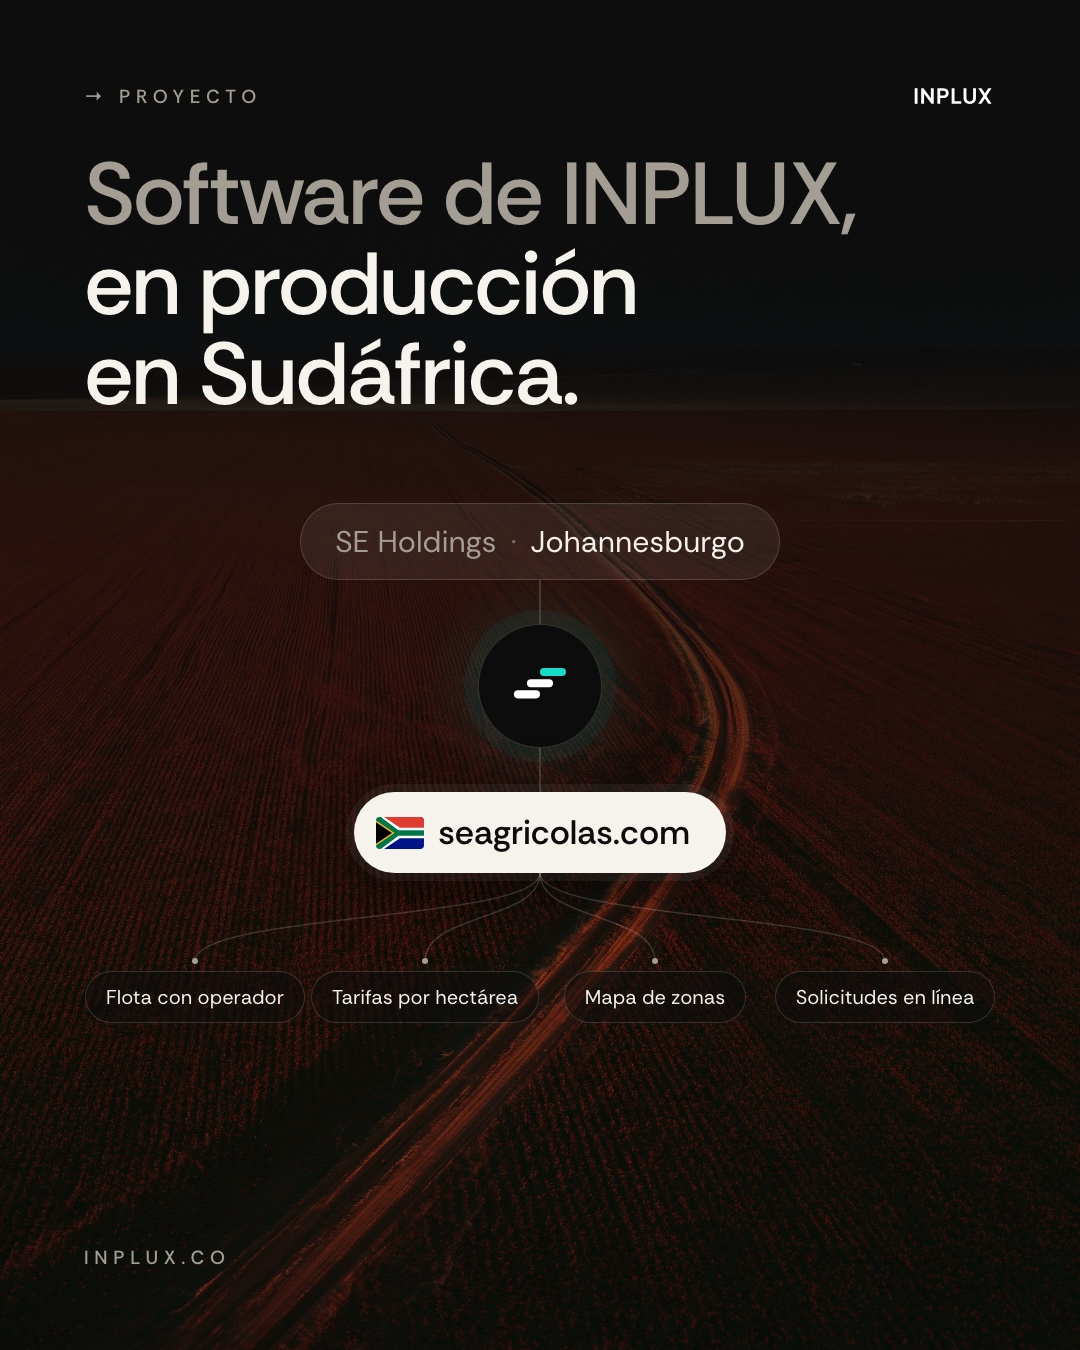
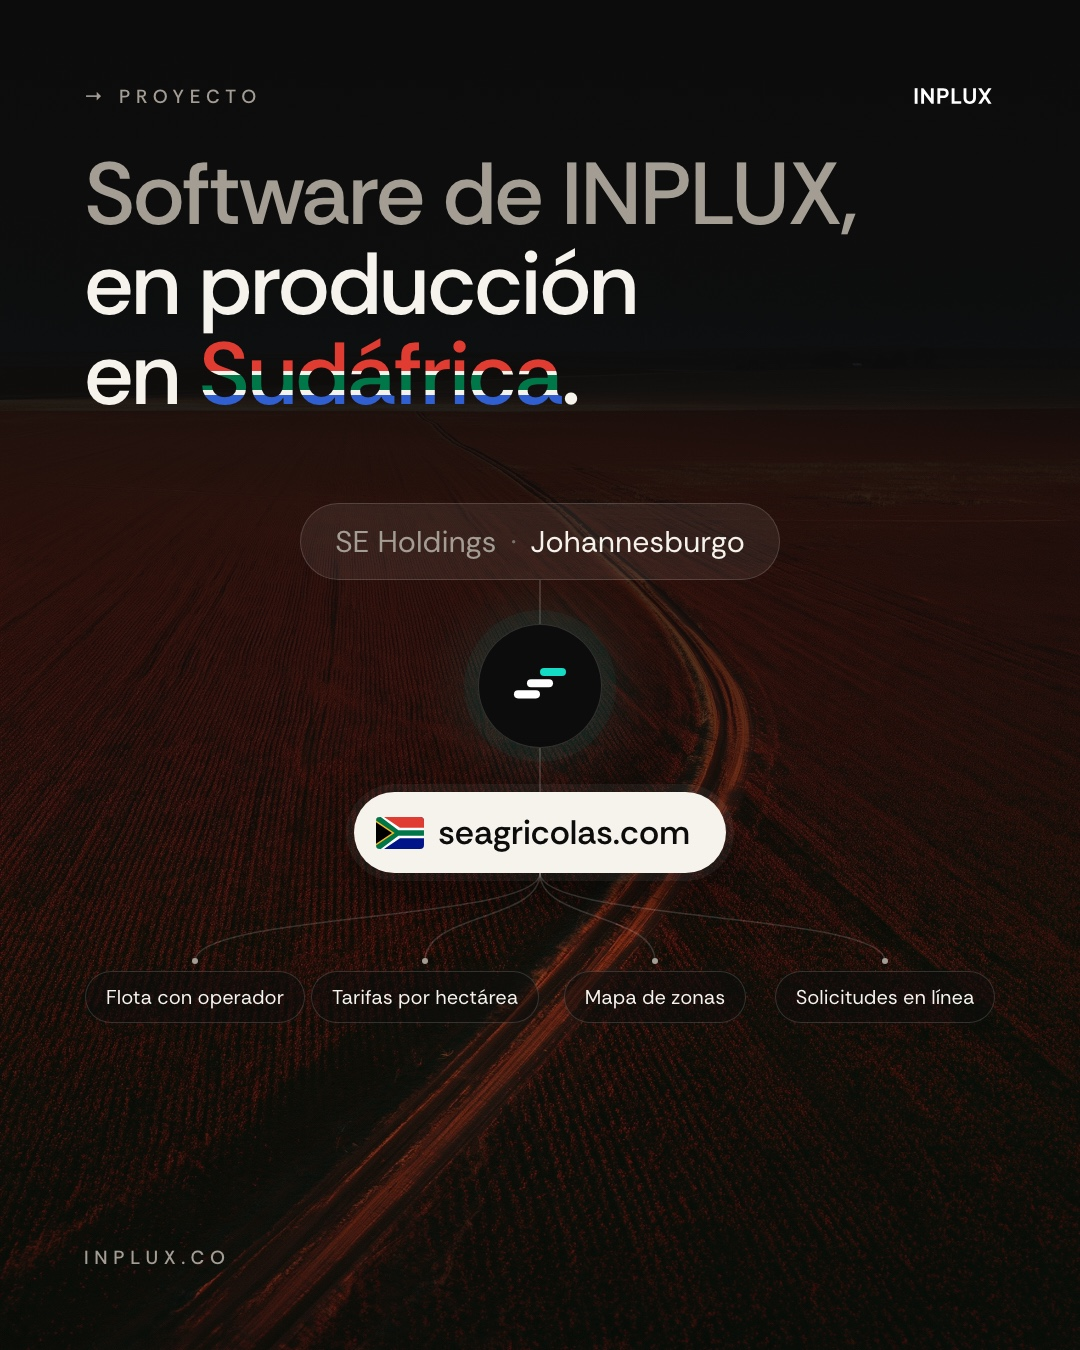
feat(instagram): portada con «Sudáfrica» en franjas de la bandera (la historia sigue en marfil)

Changed region(s): [[0.1833, 0.2489, 0.5194, 0.3111]]

diff --git a/brand/instagram/sudafrica/sudafrica_01_portada.html b/brand/instagram/sudafrica/sudafrica_01_portada.html
@@ -11,6 +11,10 @@ body{font-family:"Rethink Sans",sans-serif;color:#f6f2ec;-webkit-font-smoothing:
 .capa{position:absolute;inset:0;display:flex;flex-direction:column}
 .titular{font-weight:500;letter-spacing:-.025em;line-height:1.02}
 .titular .gris{color:#a39d94}
+/* Franjas de la bandera de Sudáfrica dentro de las letras: rojo, filete blanco, verde, filete blanco, azul.
+   El azul (#001489) se aclara un poco porque sobre el negro no se lee. */
+.za{background:linear-gradient(180deg,#E03C31 0 47%,#f6f2ec 47% 51%,#007749 51% 64%,#f6f2ec 64% 68%,#2f5fd0 68% 100%);
+  -webkit-background-clip:text;background-clip:text;color:transparent}
 .micro{font-size:19px;letter-spacing:.3em;text-transform:uppercase;color:#a39d94;font-weight:500}
 .wordmark{height:24px;display:block}
 .pill{display:inline-flex;align-items:center;gap:14px;border-radius:999px;white-space:nowrap}
@@ -23,7 +27,7 @@ body{font-family:"Rethink Sans",sans-serif;color:#f6f2ec;-webkit-font-smoothing:
 .tallo{width:1.5px;background:rgba(246,242,236,.16);margin:0 auto}
 </style></head><body><div class="lienzo"><img class="fondo" src="mj/69b6cfce_1.jpg"><div class="velo" style="background:linear-gradient(180deg,#0c0c0b 0%,rgba(12,12,11,.9) 34%,rgba(12,12,11,.45) 70%,rgba(12,12,11,.6) 100%)"></div><div class="grano"></div>
 <div class="capa" style="padding:150px 84px 0">
-  <h1 class="titular" style="font-size:88px"><span class="gris">Software de INPLUX,</span><br>en producción<br>en Sudáfrica.</h1>
+  <h1 class="titular" style="font-size:88px"><span class="gris">Software de INPLUX,</span><br>en producción<br>en <span class="za">Sudáfrica</span>.</h1>
   <div style="margin-top:84px">
 <div style="display:flex;flex-direction:column;align-items:center;transform:scale(1.0);transform-origin:top center">
   <div class="pill oscura"><span style="color:#a39d94">SE Holdings</span><span style="color:#77726b">·</span>Johannesburgo</div>

diff --git a/brand/instagram/sudafrica/historia_sudafrica.html b/brand/instagram/sudafrica/historia_sudafrica.html
@@ -11,6 +11,10 @@ body{font-family:"Rethink Sans",sans-serif;color:#f6f2ec;-webkit-font-smoothing:
 .capa{position:absolute;inset:0;display:flex;flex-direction:column}
 .titular{font-weight:500;letter-spacing:-.025em;line-height:1.02}
 .titular .gris{color:#a39d94}
+/* Franjas de la bandera de Sudáfrica dentro de las letras: rojo, filete blanco, verde, filete blanco, azul.
+   El azul (#001489) se aclara un poco porque sobre el negro no se lee. */
+.za{background:linear-gradient(180deg,#E03C31 0 47%,#f6f2ec 47% 51%,#007749 51% 64%,#f6f2ec 64% 68%,#2f5fd0 68% 100%);
+  -webkit-background-clip:text;background-clip:text;color:transparent}
 .micro{font-size:19px;letter-spacing:.3em;text-transform:uppercase;color:#a39d94;font-weight:500}
 .wordmark{height:24px;display:block}
 .pill{display:inline-flex;align-items:center;gap:14px;border-radius:999px;white-space:nowrap}

diff --git a/brand/instagram/sudafrica/sudafrica_02_producto.html b/brand/instagram/sudafrica/sudafrica_02_producto.html
@@ -11,6 +11,10 @@ body{font-family:"Rethink Sans",sans-serif;color:#f6f2ec;-webkit-font-smoothing:
 .capa{position:absolute;inset:0;display:flex;flex-direction:column}
 .titular{font-weight:500;letter-spacing:-.025em;line-height:1.02}
 .titular .gris{color:#a39d94}
+/* Franjas de la bandera de Sudáfrica dentro de las letras: rojo, filete blanco, verde, filete blanco, azul.
+   El azul (#001489) se aclara un poco porque sobre el negro no se lee. */
+.za{background:linear-gradient(180deg,#E03C31 0 47%,#f6f2ec 47% 51%,#007749 51% 64%,#f6f2ec 64% 68%,#2f5fd0 68% 100%);
+  -webkit-background-clip:text;background-clip:text;color:transparent}
 .micro{font-size:19px;letter-spacing:.3em;text-transform:uppercase;color:#a39d94;font-weight:500}
 .wordmark{height:24px;display:block}
 .pill{display:inline-flex;align-items:center;gap:14px;border-radius:999px;white-space:nowrap}

diff --git a/brand/instagram/sudafrica/sudafrica_03_alcance.html b/brand/instagram/sudafrica/sudafrica_03_alcance.html
@@ -11,6 +11,10 @@ body{font-family:"Rethink Sans",sans-serif;color:#f6f2ec;-webkit-font-smoothing:
 .capa{position:absolute;inset:0;display:flex;flex-direction:column}
 .titular{font-weight:500;letter-spacing:-.025em;line-height:1.02}
 .titular .gris{color:#a39d94}
+/* Franjas de la bandera de Sudáfrica dentro de las letras: rojo, filete blanco, verde, filete blanco, azul.
+   El azul (#001489) se aclara un poco porque sobre el negro no se lee. */
+.za{background:linear-gradient(180deg,#E03C31 0 47%,#f6f2ec 47% 51%,#007749 51% 64%,#f6f2ec 64% 68%,#2f5fd0 68% 100%);
+  -webkit-background-clip:text;background-clip:text;color:transparent}
 .micro{font-size:19px;letter-spacing:.3em;text-transform:uppercase;color:#a39d94;font-weight:500}
 .wordmark{height:24px;display:block}
 .pill{display:inline-flex;align-items:center;gap:14px;border-radius:999px;white-space:nowrap}

diff --git a/brand/instagram/sudafrica/sudafrica_04_cierre.html b/brand/instagram/sudafrica/sudafrica_04_cierre.html
@@ -11,6 +11,10 @@ body{font-family:"Rethink Sans",sans-serif;color:#f6f2ec;-webkit-font-smoothing:
 .capa{position:absolute;inset:0;display:flex;flex-direction:column}
 .titular{font-weight:500;letter-spacing:-.025em;line-height:1.02}
 .titular .gris{color:#a39d94}
+/* Franjas de la bandera de Sudáfrica dentro de las letras: rojo, filete blanco, verde, filete blanco, azul.
+   El azul (#001489) se aclara un poco porque sobre el negro no se lee. */
+.za{background:linear-gradient(180deg,#E03C31 0 47%,#f6f2ec 47% 51%,#007749 51% 64%,#f6f2ec 64% 68%,#2f5fd0 68% 100%);
+  -webkit-background-clip:text;background-clip:text;color:transparent}
 .micro{font-size:19px;letter-spacing:.3em;text-transform:uppercase;color:#a39d94;font-weight:500}
 .wordmark{height:24px;display:block}
 .pill{display:inline-flex;align-items:center;gap:14px;border-radius:999px;white-space:nowrap}

diff --git a/brand/instagram/sudafrica/build.py b/brand/instagram/sudafrica/build.py
@@ -45,6 +45,10 @@ body{{font-family:"Rethink Sans",sans-serif;color:{IVORY};-webkit-font-smoothing
 .capa{{position:absolute;inset:0;display:flex;flex-direction:column}}
 .titular{{font-weight:500;letter-spacing:-.025em;line-height:1.02}}
 .titular .gris{{color:{MUTED}}}
+/* Franjas de la bandera de Sudáfrica dentro de las letras: rojo, filete blanco, verde, filete blanco, azul.
+   El azul (#001489) se aclara un poco porque sobre el negro no se lee. */
+.za{{background:linear-gradient(180deg,#E03C31 0 47%,#f6f2ec 47% 51%,#007749 51% 64%,#f6f2ec 64% 68%,#2f5fd0 68% 100%);
+  -webkit-background-clip:text;background-clip:text;color:transparent}}
 .micro{{font-size:19px;letter-spacing:.3em;text-transform:uppercase;color:{MUTED};font-weight:500}}
 .wordmark{{height:24px;display:block}}
 .pill{{display:inline-flex;align-items:center;gap:14px;border-radius:999px;white-space:nowrap}}
@@ -97,7 +101,7 @@ def portada():
     velo = (f"linear-gradient(180deg,{BLACK} 0%,rgba(12,12,11,.9) 34%,rgba(12,12,11,.45) 70%,rgba(12,12,11,.6) 100%)")
     return head(1080, 1350) + fondo("69b6cfce_1.jpg", velo) + f"""
 <div class="capa" style="padding:150px 84px 0">
-  <h1 class="titular" style="font-size:88px"><span class="gris">Software de INPLUX,</span><br>en producción<br>en Sudáfrica.</h1>
+  <h1 class="titular" style="font-size:88px"><span class="gris">Software de INPLUX,</span><br>en producción<br>en <span class="za">Sudáfrica</span>.</h1>
   <div style="margin-top:84px">{diagrama(860)}</div>
 </div>{marcas_borde(84, arriba="→ Proyecto")}</div></body></html>"""
 
